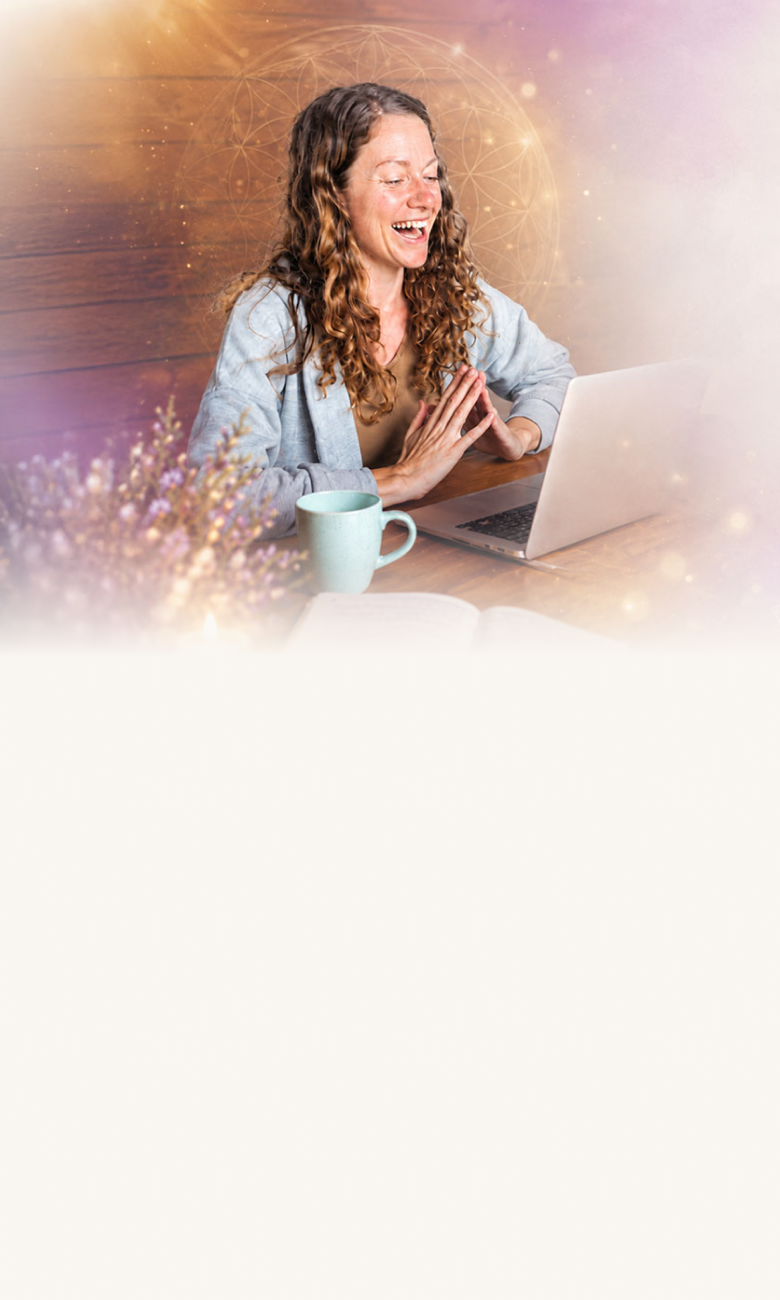
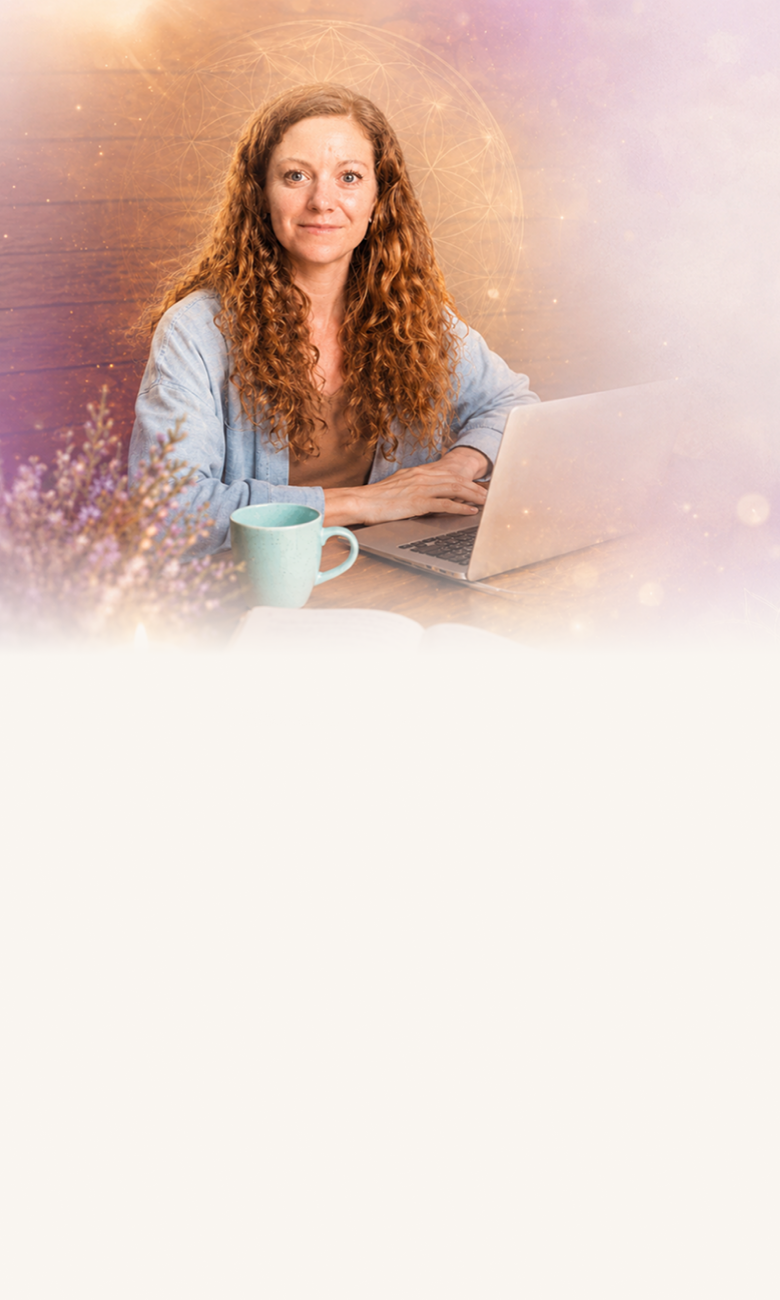
actualizacion img / botones / fdooter

Changed region(s): [[0.0, 0.0, 0.8923, 0.4923]]

diff --git a/components/HeroSection.tsx b/components/HeroSection.tsx
@@ -9,6 +9,29 @@ const schedules = [
 
 const ctaText = "Reservar mi lugar";
 
+const SparkleIcon = ({ id }: { id: string }) => (
+  <svg width="1em" height="1em" viewBox="0 0 24 24" fill="none" xmlns="http://www.w3.org/2000/svg">
+    <g style={{ filter: `url(#${id})` }}>
+      <path d="M12 2.5l2.4 6.1L20.5 11l-6.1 2.4L12 19.5l-2.4-6.1L3.5 11l6.1-2.4L12 2.5z" fill="currentColor" />
+    </g>
+    <defs>
+      <filter id={id}>
+        <feDropShadow dx="0" dy="1" stdDeviation="0.6" floodOpacity="0.5" />
+      </filter>
+    </defs>
+  </svg>
+);
+
+function renderLetters(text: string, keyPrefix = "l") {
+  return text.split("").map((char, i) =>
+    char === " " ? (
+      <span key={`${keyPrefix}-space-${i}`} className="btn-space">{" "}</span>
+    ) : (
+      <span key={`${keyPrefix}-${i}`} style={{ "--i": i } as React.CSSProperties}>{char}</span>
+    )
+  );
+}
+
 export default function HeroSection() {
   return (
     <section className="hero-section" aria-labelledby="hero-title">
@@ -66,38 +89,12 @@ export default function HeroSection() {
             <div className="outline" />
             <div className="state state--default">
               <div className="icon" aria-hidden="true">
-                <svg
-                  width="1em"
-                  height="1em"
-                  viewBox="0 0 24 24"
-                  fill="none"
-                  xmlns="http://www.w3.org/2000/svg"
-                >
-                  <g style={{ filter: "url(#sparkleShadow)" }}>
-                    <path
-                      d="M12 2.5l2.4 6.1L20.5 11l-6.1 2.4L12 19.5l-2.4-6.1L3.5 11l6.1-2.4L12 2.5z"
-                      fill="currentColor"
-                    />
-                  </g>
-                  <defs>
-                    <filter id="sparkleShadow">
-                      <feDropShadow
-                        dx="0"
-                        dy="1"
-                        stdDeviation="0.6"
-                        floodOpacity="0.5"
-                      />
-                    </filter>
-                  </defs>
-                </svg>
+                <SparkleIcon id="sparkleHeroL" />
               </div>
-              <p>
-                {ctaText.split("").map((char, i) => (
-                  <span key={`cta-${char}-${i}`} style={{ "--i": i } as React.CSSProperties}>
-                    {char === " " ? " " : char}
-                  </span>
-                ))}
-              </p>
+              <p>{renderLetters(ctaText, "hero")}</p>
+              <div className="icon icon--end" aria-hidden="true">
+                <SparkleIcon id="sparkleHeroR" />
+              </div>
             </div>
           </a>
         </div>

diff --git a/components/FinalSection.tsx b/components/FinalSection.tsx
@@ -16,6 +16,29 @@ const schedules = [
   { country: "Colombia",  src: "/colombia.webp" },
 ];
 
+const SparkleIcon = ({ id }: { id: string }) => (
+  <svg width="1em" height="1em" viewBox="0 0 24 24" fill="none" xmlns="http://www.w3.org/2000/svg">
+    <g style={{ filter: `url(#${id})` }}>
+      <path d="M12 2.5l2.4 6.1L20.5 11l-6.1 2.4L12 19.5l-2.4-6.1L3.5 11l6.1-2.4L12 2.5z" fill="currentColor" />
+    </g>
+    <defs>
+      <filter id={id}>
+        <feDropShadow dx="0" dy="1" stdDeviation="0.6" floodOpacity="0.5" />
+      </filter>
+    </defs>
+  </svg>
+);
+
+function renderLetters(text: string, keyPrefix = "l") {
+  return text.split("").map((char, i) =>
+    char === " " ? (
+      <span key={`${keyPrefix}-space-${i}`} className="btn-space">{" "}</span>
+    ) : (
+      <span key={`${keyPrefix}-${i}`} style={{ "--i": i } as React.CSSProperties}>{char}</span>
+    )
+  );
+}
+
 export default function FinalSection() {
   const sectionRef = useRef<HTMLElement>(null);
 
@@ -112,27 +135,12 @@ export default function FinalSection() {
               <div className="outline" />
               <div className="state state--default">
                 <div className="icon" aria-hidden="true">
-                  <svg width="1em" height="1em" viewBox="0 0 24 24" fill="none" xmlns="http://www.w3.org/2000/svg">
-                    <g style={{ filter: "url(#sparkleShadow)" }}>
-                      <path
-                        d="M12 2.5l2.4 6.1L20.5 11l-6.1 2.4L12 19.5l-2.4-6.1L3.5 11l6.1-2.4L12 2.5z"
-                        fill="currentColor"
-                      />
-                    </g>
-                    <defs>
-                      <filter id="sparkleShadow">
-                        <feDropShadow dx="0" dy="1" stdDeviation="0.6" floodOpacity="0.5" />
-                      </filter>
-                    </defs>
-                  </svg>
+                  <SparkleIcon id="sparkleFinalL" />
                 </div>
-                <p>
-                  {ctaPrimary.split("").map((char, i) => (
-                    <span key={i} style={{ "--i": i } as React.CSSProperties}>
-                      {char === " " ? " " : char}
-                    </span>
-                  ))}
-                </p>
+                <p>{renderLetters(ctaPrimary, "final")}</p>
+                <div className="icon icon--end" aria-hidden="true">
+                  <SparkleIcon id="sparkleFinalR" />
+                </div>
               </div>
             </a>
 
@@ -150,13 +158,7 @@ export default function FinalSection() {
                     <path d="M12 0C5.373 0 0 5.373 0 12c0 2.123.554 4.117 1.523 5.845L.057 23.428a.5.5 0 0 0 .609.61l5.652-1.48A11.945 11.945 0 0 0 12 24c6.627 0 12-5.373 12-12S18.627 0 12 0zm0 21.818a9.806 9.806 0 0 1-5.012-1.374l-.36-.214-3.733.977.998-3.645-.234-.374A9.818 9.818 0 0 1 2.182 12C2.182 6.57 6.57 2.182 12 2.182S21.818 6.57 21.818 12 17.43 21.818 12 21.818z" />
                   </svg>
                 </div>
-                <p>
-                  {ctaSupport.split("").map((char, i) => (
-                    <span key={i} style={{ "--i": i } as React.CSSProperties}>
-                      {char === " " ? " " : char}
-                    </span>
-                  ))}
-                </p>
+                <p>{renderLetters(ctaSupport, "support")}</p>
               </div>
             </a>
           </div>
@@ -185,7 +187,7 @@ export default function FinalSection() {
 
       <footer className="site-footer">
         <p className="site-footer__copy">
-          © {new Date().getFullYear()} Aida Qui · Todos los derechos reservados
+          © {new Date().getFullYear()} Aida Qui · Divine Alignment LLC · Todos los derechos reservados
         </p>
       </footer>
     </>

diff --git a/components/Section5.tsx b/components/Section5.tsx
@@ -198,6 +198,52 @@ export default function Section5() {
             recalibrar tu energía y sostener esta nueva etapa de tu vida.
           </p>
         </div>
+
+        <div className="s5-cta">
+          <a
+            href="https://buy.stripe.com/8x200bbsAf5A3US1ge2400E"
+            className="button s5-cta__btn"
+            target="_blank"
+            rel="noopener noreferrer"
+          >
+            <div className="outline" />
+            <div className="state state--default">
+              <div className="icon" aria-hidden="true">
+                <svg width="1em" height="1em" viewBox="0 0 24 24" fill="none" xmlns="http://www.w3.org/2000/svg">
+                  <g style={{ filter: "url(#sparkleS5L)" }}>
+                    <path d="M12 2.5l2.4 6.1L20.5 11l-6.1 2.4L12 19.5l-2.4-6.1L3.5 11l6.1-2.4L12 2.5z" fill="currentColor" />
+                  </g>
+                  <defs>
+                    <filter id="sparkleS5L">
+                      <feDropShadow dx="0" dy="1" stdDeviation="0.6" floodOpacity="0.5" />
+                    </filter>
+                  </defs>
+                </svg>
+              </div>
+              <p>
+                {"Reservar mi lugar".split("").map((char, i) =>
+                  char === " " ? (
+                    <span key={i} className="btn-space"> </span>
+                  ) : (
+                    <span key={i} style={{ "--i": i } as React.CSSProperties}>{char}</span>
+                  )
+                )}
+              </p>
+              <div className="icon icon--end" aria-hidden="true">
+                <svg width="1em" height="1em" viewBox="0 0 24 24" fill="none" xmlns="http://www.w3.org/2000/svg">
+                  <g style={{ filter: "url(#sparkleS5R)" }}>
+                    <path d="M12 2.5l2.4 6.1L20.5 11l-6.1 2.4L12 19.5l-2.4-6.1L3.5 11l6.1-2.4L12 2.5z" fill="currentColor" />
+                  </g>
+                  <defs>
+                    <filter id="sparkleS5R">
+                      <feDropShadow dx="0" dy="1" stdDeviation="0.6" floodOpacity="0.5" />
+                    </filter>
+                  </defs>
+                </svg>
+              </div>
+            </div>
+          </a>
+        </div>
       </div>
     </section>
   );

diff --git a/styles/globals.css b/styles/globals.css
@@ -417,8 +417,10 @@ body {
 }
 .button .state {
   padding-left: 29px;
+  padding-right: 29px;
   z-index: 3;
   display: flex;
+  align-items: center;
   position: relative;
 }
 .button .state p {
@@ -438,6 +440,11 @@ body {
   display: flex;
   align-items: center;
   justify-content: center;
+}
+.button .state .icon--end {
+  position: absolute;
+  right: 0;
+  left: auto;
 }
 .button .state .icon svg {
   overflow: visible;
@@ -481,9 +488,17 @@ body {
 }
 
 .button .state p span {
-  display: block;
+  display: inline-block;
   opacity: 0;
   animation: btn-slideDown 0.8s ease forwards calc(var(--i) * 0.03s);
+}
+
+.button .state p .btn-space,
+.final-support-link .state p .btn-space {
+  display: inline-block;
+  width: 0.28em;
+  opacity: 1;
+  animation: none;
 }
 .button:hover p span {
   opacity: 1;
@@ -1318,6 +1333,19 @@ body {
   max-width: 600px;
 }
 
+/* Mid-page CTA — shown after bonus section */
+.s5-cta {
+  display: flex;
+  justify-content: center;
+  padding-top: 16px;
+}
+
+.s5-cta__btn {
+  min-width: 280px;
+  max-width: 420px;
+  width: 100%;
+}
+
 /* Mobile stack + bonus-mobile — hidden on desktop */
 .s5-stack,
 .s5-bonus-mobile {
@@ -1391,7 +1419,6 @@ body {
   inset: 0;
   z-index: 0;
   background-image: url("/section-6.webp");
-  background-size: cover;
   background-position: center center;
   background-repeat: no-repeat;
 }

diff --git a/.atl/skill-registry.md b/.atl/skill-registry.md
@@ -2,7 +2,7 @@
 
 <!-- Auto-generated by gentle-ai skill-registry refresh. Run `gentle-ai skill-registry refresh --force` to regenerate. -->
 
-Last updated: 2026-05-20
+Last updated: 2026-05-21
 
 ## Sources scanned
 